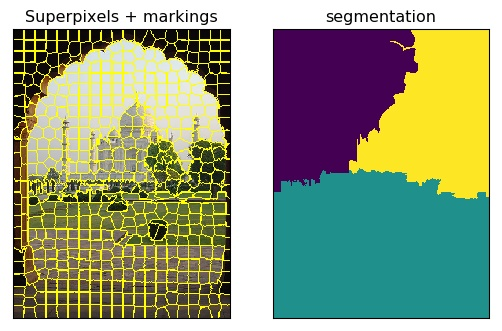
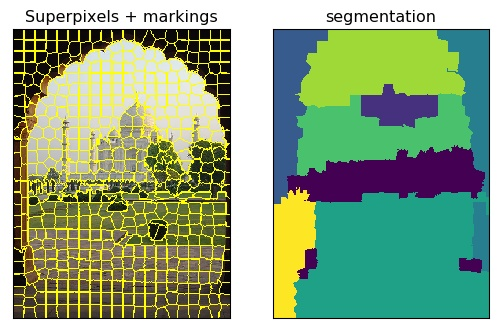
Refactoring

Changed region(s): [[0.5378, 0.0906, 0.9861, 0.9668], [0.8964, 0.7553, 0.9861, 0.8459]]

diff --git a/algorithms/algorithms.py b/algorithms/algorithms.py
@@ -2,7 +2,7 @@ import cv2
 import numpy as np
 import slic
 import clustering
-from os import listdir
+from os import listdir, path
 import maxflow
 import matplotlib.pyplot as plt
 from skimage.segmentation import mark_boundaries
@@ -70,13 +70,17 @@ class Algorithms:
 
             self.imgs_segment_histograms_hsv_normalized[img] = np.float32([h / h.flatten().sum() for h in self.imgs_segment_histograms_hsv[img]])
 
-    def compute_sift(self):
+    def compute_sift(self, keypoint_size=32.0):
         sift = cv2.xfeatures2d_SIFT.create()
-
         for img in self.images:
             gray = cv2.cvtColor(cv2.imread(img), cv2.COLOR_BGR2GRAY)
-            self.imgs_segment_sift_keypoints[img] = [cv2.KeyPoint(self.imgs_segment_centers[img][i][1], self.imgs_segment_centers[img][i][0], 64.0, -1) for i in self.imgs_segment_ids[img]]
+            self.imgs_segment_sift_keypoints[img] = [cv2.KeyPoint(self.imgs_segment_centers[img][i][1], self.imgs_segment_centers[img][i][0], keypoint_size, -1) for i in self.imgs_segment_ids[img]]
             self.imgs_segment_sift_keypoints[img], self.imgs_segment_sift_descriptors[img] = sift.compute(gray, self.imgs_segment_sift_keypoints[img])
+
+    def compute_hog(self):
+
+        for img in self.images:
+            exit()
 
     # Shows a plot of the histogram of the entire image at image_path or one of its segments
     def show_histogram(self, image_path, segment=None):
@@ -98,101 +102,6 @@ class Algorithms:
     # sets the background of the image at image_path to segments
     def set_bg_segments(self, image_path, segments):
         self.imgs_background_segments[image_path] = segments
-
-    # To be used after superpixel segmentation and feature extraction
-    # Segments the image using graph cut
-    def perform_graph_cut(self):
-        def compute_cumulative_histograms():
-            # for each image sum up the histograms of the chosen segments
-            histograms_fg = [
-                np.sum([h.flatten() for h in self.imgs_segment_histograms_hsv[img][self.imgs_foreground_segments[img]]],
-                       axis=0) for img in self.images]
-            histograms_bg = [
-                np.sum([h.flatten() for h in self.imgs_segment_histograms_hsv[img][self.imgs_background_segments[img]]],
-                       axis=0) for img in self.images]
-
-            # combine the histograms for each image into one
-            histogram_fg = np.sum(histograms_fg, axis=0)
-            histogram_bg = np.sum(histograms_bg, axis=0)
-
-            # normalize the histograms to get the final cumulative histograms
-            return histogram_fg / histogram_fg.sum(), histogram_bg / histogram_bg.sum()
-
-        # get cumulative BG/FG histograms, being the sum of the selected superpixel IDs normalized
-        fg_hist, bg_hist = compute_cumulative_histograms()
-
-        def do_graph_cut(image_path, fg_hist, bg_hist, hist_comp_alg=cv2.HISTCMP_KL_DIV):
-            num_nodes = len(self.imgs_segment_ids[image_path])
-
-            # Create a graph of N nodes with an estimate of 5 edges per node
-            g = maxflow.Graph[float](num_nodes, num_nodes * 5)
-
-            # Add N nodes
-            nodes = g.add_nodes(num_nodes)
-
-            # Initialize smoothness terms: energy between neighbors
-            for i in range(len(self.imgs_segment_neighbors[image_path])):
-                N = self.imgs_segment_neighbors[image_path][i]  # list of neighbor superpixels
-                hi = self.imgs_segment_histograms_hsv_normalized[image_path][i].flatten()  # histogram for center
-                for n in N:
-                    if (n < 0) or (n > num_nodes):
-                        continue
-                    # Create two edges (forwards and backwards) with capacities based on
-                    # histogram matching
-                    hn = self.imgs_segment_histograms_hsv_normalized[image_path][n].flatten()  # histogram for neighbor
-                    g.add_edge(nodes[i], nodes[n], 20 - cv2.compareHist(hi, hn, hist_comp_alg),
-                               20 - cv2.compareHist(hn, hi, hist_comp_alg))
-
-            # Initialize match terms: energy of assigning node to foreground or background
-            for i, h in enumerate(self.imgs_segment_histograms_hsv_normalized[image_path]):
-                h = h.flatten()
-                energy_fg = 0
-                energy_bg = 0
-                if i in self.imgs_foreground_segments[image_path]:
-                    energy_bg = 1000  # Node is fg -> set high energy for bg
-                elif i in self.imgs_background_segments[image_path]:
-                    energy_fg = 1000  # Node is bg -> set high energy for fg
-                else:
-                    energy_fg = cv2.compareHist(fg_hist, h, hist_comp_alg)
-                    energy_bg = cv2.compareHist(bg_hist, h, hist_comp_alg)
-                g.add_tedge(nodes[i], energy_fg, energy_bg)
-
-            g.maxflow()
-            return g.get_grid_segments(nodes)
-
-        for img in self.images:
-            graph_cut = do_graph_cut(img, fg_hist, bg_hist)
-
-            # Get a bool mask of the pixels for a given selection of superpixel IDs
-            segmentation = np.where(np.isin(self.imgs_segmentation[img], np.nonzero(graph_cut)), True, False)
-
-            self.imgs_cosegmented[img] = np.uint8(segmentation * 255)
-
-    def get_segment_boundaries(self, img_path):
-        return find_boundaries(self.imgs_segmentation[img_path])
-
-    # write the segmented images to specified folder
-    def save_segmented_images(self, folder):
-        for image in self.imgs_segmentation:
-            slic.save_superpixel_image(self.imgs_float64[image], self.imgs_segmentation[image],
-                                       folder + '/' + image.split('/')[-1])
-
-    def plot_cosegmentations(self):
-        for img in self.images:
-            plt.subplot(1, 2, 2), plt.xticks([]), plt.yticks([])
-            plt.title('segmentation')
-            plt.imshow(self.imgs_cosegmented[img])
-            plt.subplot(1, 2, 1), plt.xticks([]), plt.yticks([])
-            superpixels = mark_boundaries(self.imgs_float64[img], self.imgs_segmentation[img])
-            marking = cv2.imread('markings/' + img.split('/')[-1])
-            if marking is not None:
-                superpixels[marking[:, :, 0] != 255] = (1, 0, 0)
-                superpixels[marking[:, :, 2] != 255] = (0, 0, 1)
-            plt.imshow(superpixels)
-            plt.title("Superpixels + markings")
-
-            plt.savefig("output/segmentation/" + img.split('/')[-1], bbox_inches='tight', dpi=96)
-            plt.clf()
 
     # To be used after superpixel segmentation and feature extraction.
     # Splits the images up in num_clusters using the given method.
@@ -223,9 +132,97 @@ class Algorithms:
 
         for i, img in enumerate(self.images):
             # Get segmentation for current image
-            segmentation = segmentations[(indices[i-1] % indices[-1]):indices[i]]
+            segmentation = segmentations[(indices[i - 1] % indices[-1]):indices[i]]
             # For each pixel in superpixel segmentation look up the cluster of its superpixel
             self.imgs_cosegmented[img] = [segmentation[pixel] for pixel in self.imgs_segmentation[img]]
+
+    # To be used after superpixel segmentation and feature extraction
+    # Segments the image using graph cut
+    def perform_graph_cut(self, hist_comp_alg=cv2.HISTCMP_KL_DIV):
+        # group the foreground and background segments' histograms in one list
+        histograms_fg = [
+            np.sum([h.flatten() for h in self.imgs_segment_histograms_hsv[img][self.imgs_foreground_segments[img]]],
+                       axis=0) for img in self.images]
+        histograms_bg = [
+            np.sum([h.flatten() for h in self.imgs_segment_histograms_hsv[img][self.imgs_background_segments[img]]],
+                       axis=0) for img in self.images]
+
+        # combine the histograms for each image into one by summing them
+        histogram_fg = np.sum(histograms_fg, axis=0)
+        histogram_bg = np.sum(histograms_bg, axis=0)
+
+        # normalize the histograms to get the final cumulative histograms
+        fg_hist = histogram_fg / histogram_fg.sum()
+        bg_hist = histogram_bg / histogram_bg.sum()
+
+        # perform graph-cut for every image
+        for img in self.images:
+            # Create a graph of N nodes with an estimate of 5 edges per node
+            num_nodes = len(self.imgs_segment_ids[img])
+            graph = maxflow.Graph[float](num_nodes, num_nodes * 5)
+
+            # Add the nodes
+            nodes = graph.add_nodes(num_nodes)
+
+            # Initialize match terms: energy of assigning node to foreground or background
+            for i, h in enumerate(self.imgs_segment_histograms_hsv_normalized[img]):
+                hist = h.flatten()
+                energy_fg = 0
+                energy_bg = 0
+                if i in self.imgs_foreground_segments[img]:
+                    energy_bg = 1000  # Node is fg -> set high energy for bg
+                elif i in self.imgs_background_segments[img]:
+                    energy_fg = 1000  # Node is bg -> set high energy for fg
+                else:
+                    # set energy based on histogram matching
+                    energy_fg = cv2.compareHist(fg_hist, hist, hist_comp_alg)
+                    energy_bg = cv2.compareHist(bg_hist, hist, hist_comp_alg)
+                graph.add_tedge(nodes[i], energy_fg, energy_bg)
+
+            # Initialize smoothness terms: energy between neighbors
+            for i in range(len(self.imgs_segment_neighbors[img])):  # Loop over every segment
+                hist = self.imgs_segment_histograms_hsv_normalized[img][i].flatten()
+                for n in self.imgs_segment_neighbors[img][i]:  # For every neighbor of the segment
+                    if (n < 0) or (n > num_nodes):
+                        continue
+                    # Create two edges between segment and its neighbor with cost based on histogram matching
+                    hist_neighbor = self.imgs_segment_histograms_hsv_normalized[img][n].flatten()  # histogram for neighbor
+                    graph.add_edge(nodes[i], nodes[n],
+                                   20 - cv2.compareHist(hist, hist_neighbor, hist_comp_alg),
+                                   20 - cv2.compareHist(hist_neighbor, hist, hist_comp_alg))
+
+            graph.maxflow()
+
+            graph_cut = graph.get_grid_segments(nodes)
+
+            # Get a bool mask of the pixels for a given selection of superpixel IDs
+            self.imgs_cosegmented[img] = np.where(np.isin(self.imgs_segmentation[img], np.nonzero(graph_cut)), True, False)
+
+    def get_segment_boundaries(self, img_path):
+        return find_boundaries(self.imgs_segmentation[img_path])
+
+    # write the segmented images to specified folder
+    def save_segmented_images(self, folder):
+        for image in self.imgs_segmentation:
+            slic.save_superpixel_image(self.imgs_float64[image], self.imgs_segmentation[image],
+                                       folder + '/' + image.split('/')[-1])
+
+    def plot_cosegmentations(self, folder_path):
+        for img in self.images:
+            plt.subplot(1, 2, 2), plt.xticks([]), plt.yticks([])
+            plt.title('segmentation')
+            plt.imshow(self.imgs_cosegmented[img])
+            plt.subplot(1, 2, 1), plt.xticks([]), plt.yticks([])
+            superpixels = mark_boundaries(self.imgs_float64[img], self.imgs_segmentation[img])
+            marking = cv2.imread(folder_path + 'markings/' + img.split('/')[-1])
+            if marking is not None:
+                superpixels[marking[:, :, 0] != 255] = (1, 0, 0)
+                superpixels[marking[:, :, 2] != 255] = (0, 0, 1)
+            plt.imshow(superpixels)
+            plt.title("Superpixels + markings")
+
+            plt.savefig("output/segmentation/" + img.split('/')[-1], bbox_inches='tight', dpi=96)
+            plt.clf()
 
     # Returns a binary mask after cosegmentation of the image at image_path of the segments in segments
     def get_coseg_mask(self, image_path, segments=None):
@@ -238,7 +235,8 @@ if __name__ == '__main__':
 
     folder_path = '../images_icoseg/043 Christ the Redeemer-Rio de Janeiro-Leonardo Paris/'
     folder_path = '../images_icoseg/018 Agra Taj Mahal-Inde du Nord 2004-Mhln/'
-    image_paths = [folder_path + name for name in listdir(folder_path)]
+    folder_path = '../images_icoseg/025 Airshows-helicopter/'
+    image_paths = [folder_path + file for file in listdir(folder_path) if path.isfile(path.join(folder_path, file))]
 
     alg = Algorithms(image_paths)
 
@@ -250,29 +248,28 @@ if __name__ == '__main__':
     # alg.save_segmented_images('output/superpixel')
 
     # Extract features
-    alg.compute_sift()
+    alg.compute_sift(keypoint_size=32.0)
 
-    alg.compute_histograms_hsv(bins_H=20, bins_S=20)
+    alg.compute_histograms_hsv(bins_H=10, bins_S=10)
 
     # Retrieve foreground and background segments from marking images in markings folder
     # marking images should be white with red pixels indicating foreground and blue pixels indicating background and
     # have the same name as the image they are markings for
     for image in image_paths:
-        marking = cv2.imread('markings/'+image.split('/')[-1])
+        marking = cv2.imread(folder_path + 'markings/' + image.split('/')[-1])
         if marking is not None:
-            fg_segments = np.unique(alg.imgs_segmentation[image][marking[:, :, 0] != 255])
-            bg_segments = np.unique(alg.imgs_segmentation[image][marking[:, :, 2] != 255])
+            fg_segments = np.unique(alg.imgs_segmentation[image][marking[:, :, 2] < 200])
+            bg_segments = np.unique(alg.imgs_segmentation[image][marking[:, :, 0] < 200])
             alg.set_fg_segments(image, fg_segments)
             alg.set_bg_segments(image, bg_segments)
 
-    alg.perform_clustering(3, 'kmeans', 'sift')
+    # alg.perform_clustering(4, 'kmeans', 'both')
+    alg.perform_graph_cut()
 
     for image in image_paths:
         cv2.imwrite('output/masks/'+image.split('/')[-1], np.uint8(alg.get_coseg_mask(image, 0)*255))
 
-    # alg.compute_cosegmentations_graph_cut()
-
-    alg.plot_cosegmentations()
+    alg.plot_cosegmentations(folder_path)
 
     # alg.show_histogram('images/bear1.jpg')
     # alg.show_histogram('images/bear1.jpg', 1)
